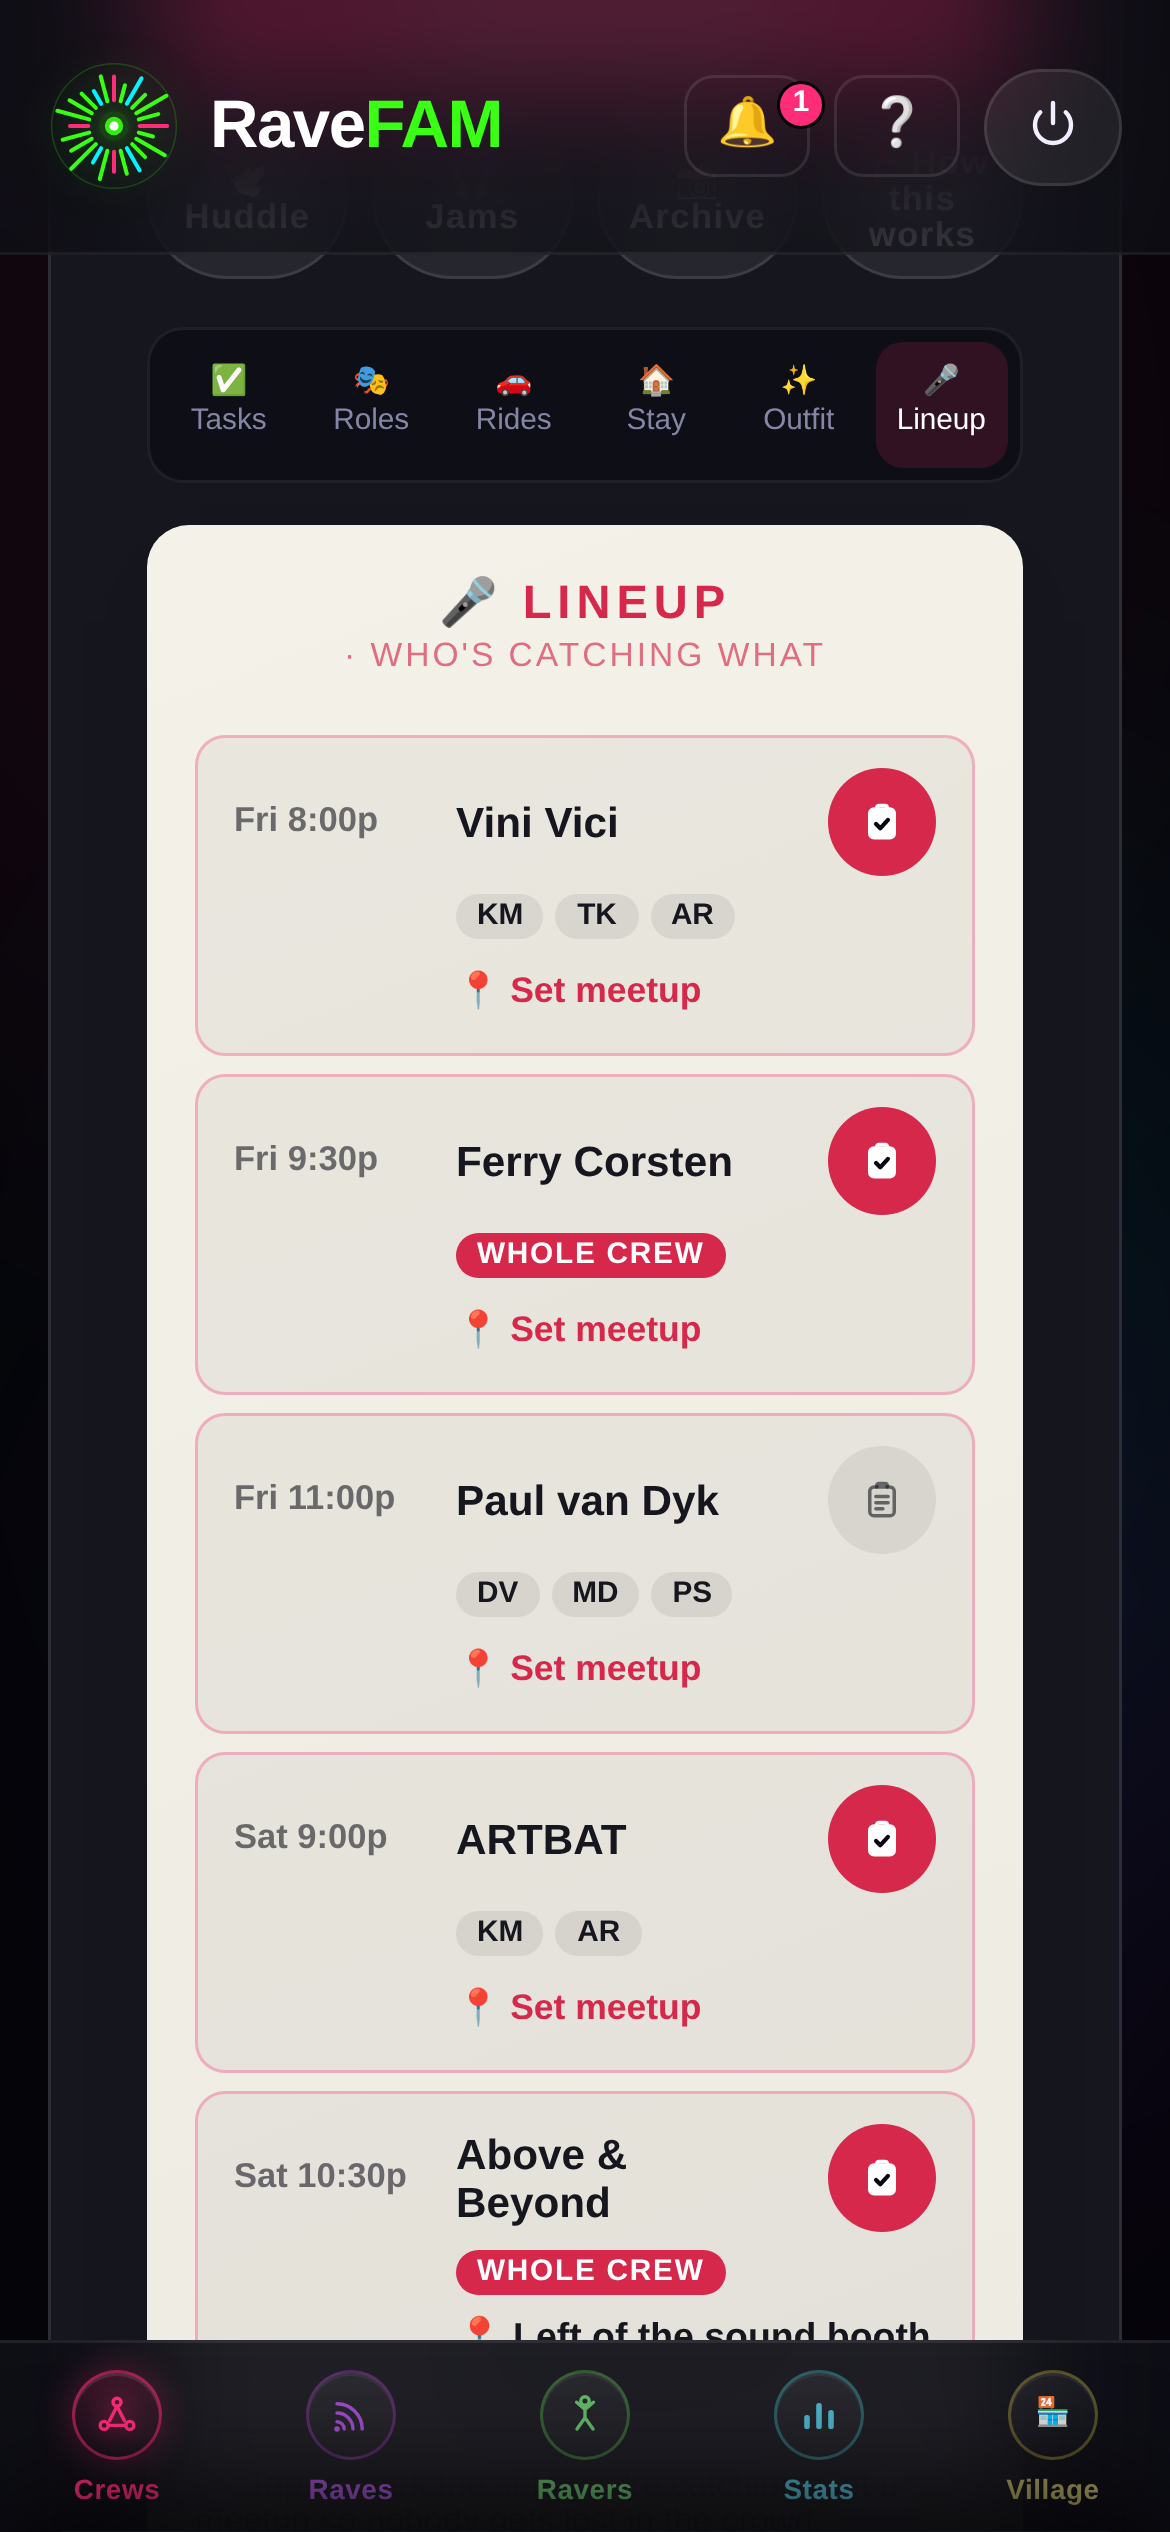
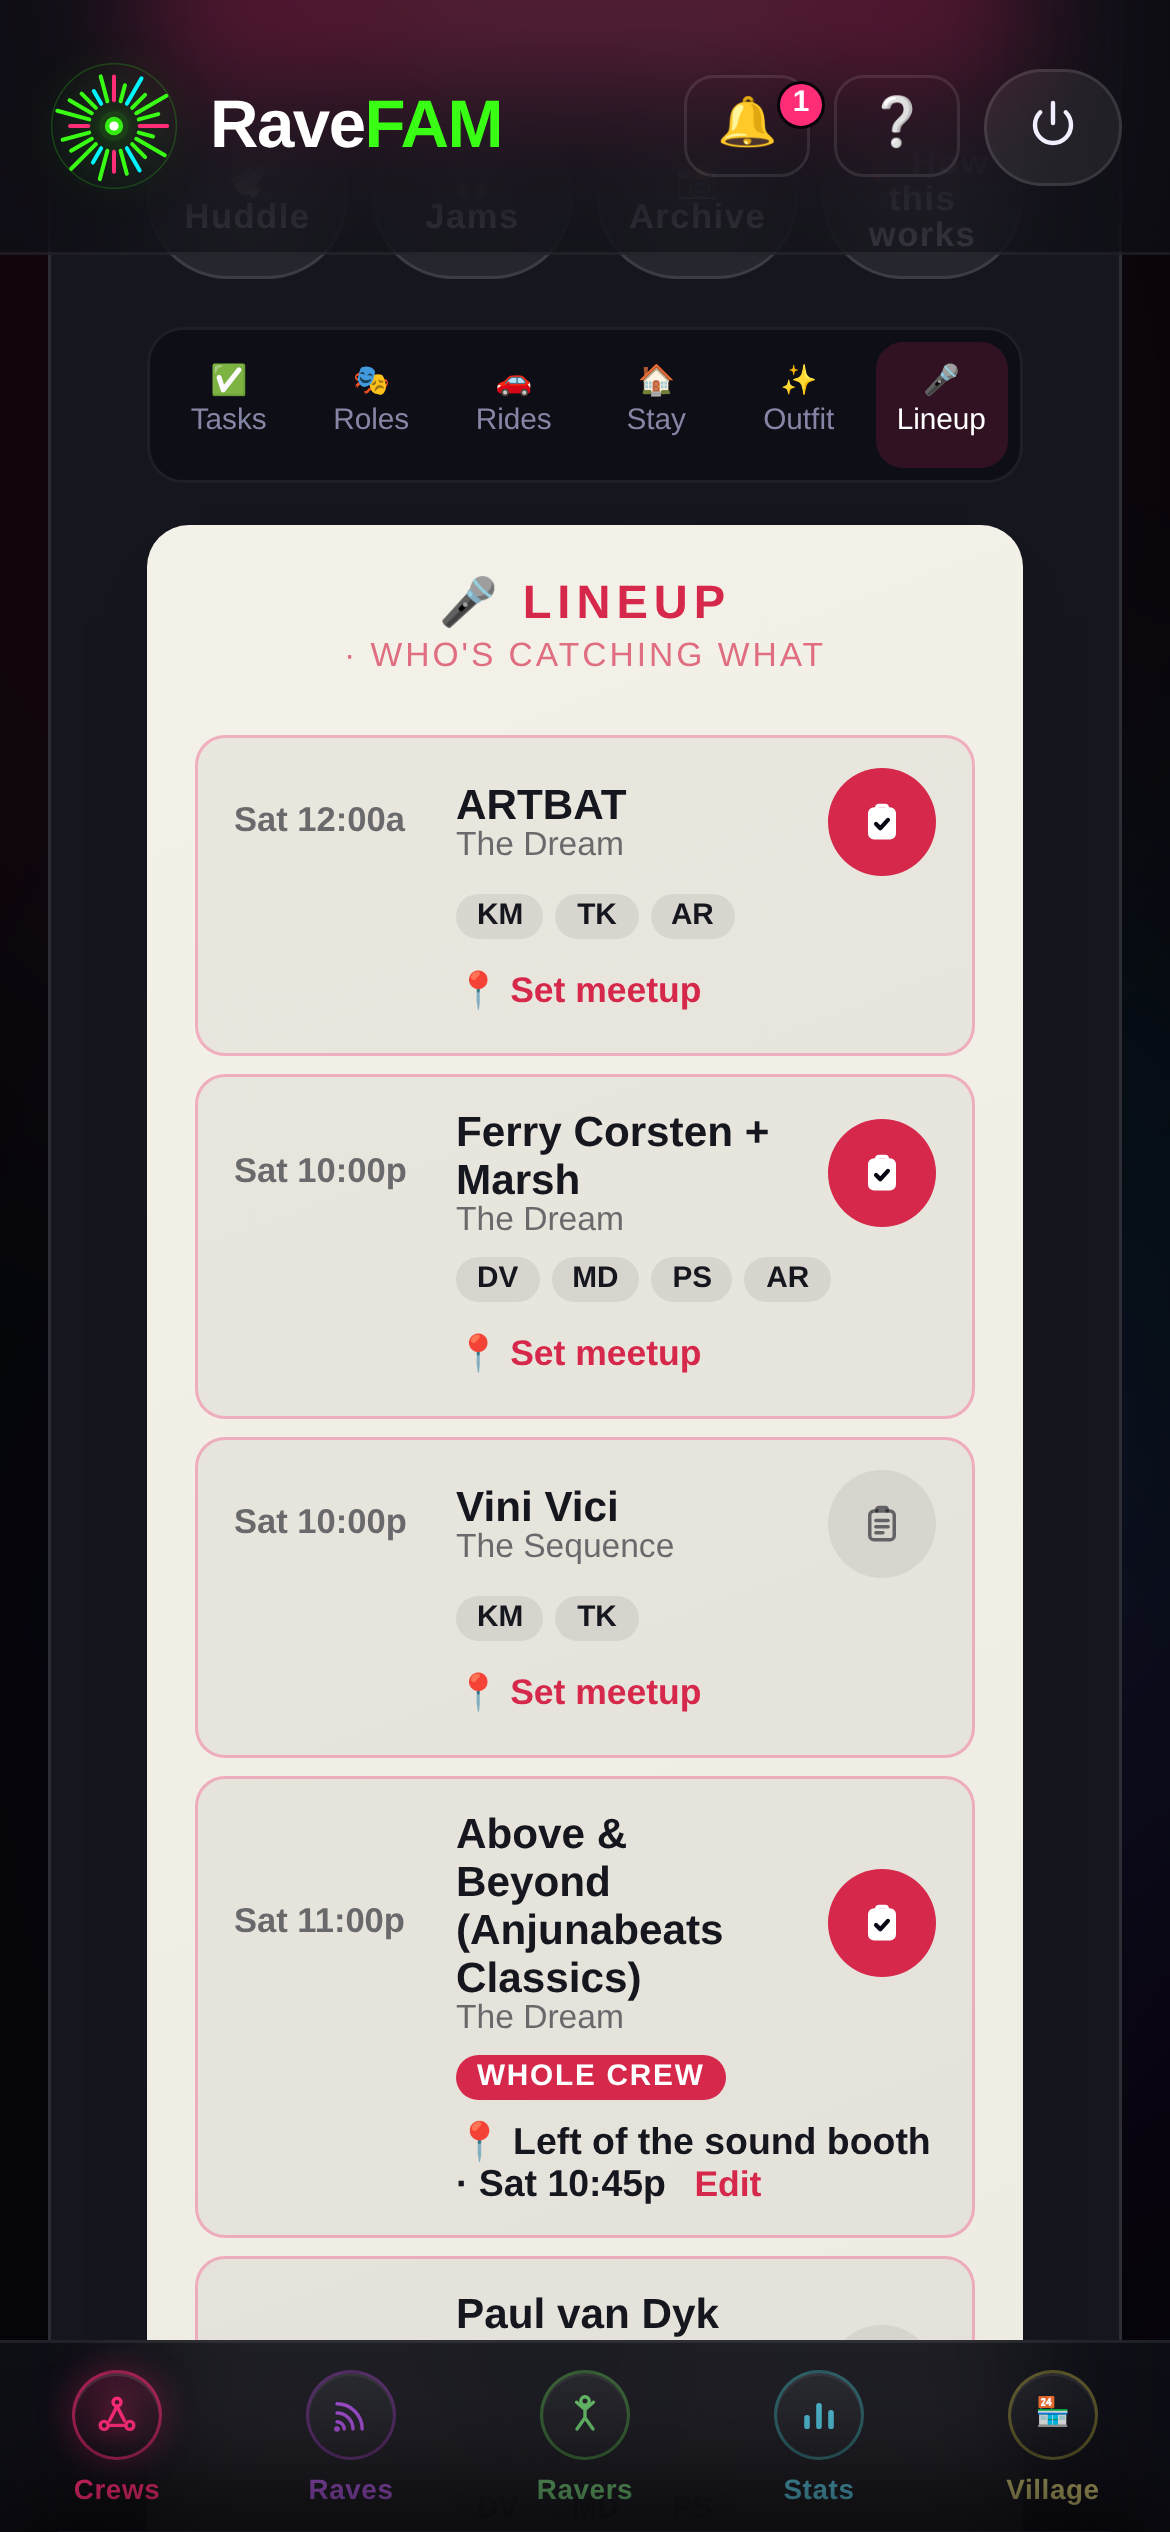
Dreamstate carousel: official set times, fix Huddle day label
Slide 2 now uses the real Dreamstate SoCal set times and stages, cropped
on the Ferry Corsten + Marsh / Vini Vici clash. Slide 5's chat said
YESTERDAY because message times ignored the per-shot clock.

Claude-Session: https://claude.ai/code/session_01SGcxiCHtpqgQjcbn53CMaH

diff --git a/marketing/dreamstate-socal-2026/_build/capture.js b/marketing/dreamstate-socal-2026/_build/capture.js
@@ -2,8 +2,7 @@
 // Captures the Dreamstate SoCal 2026 Game Plan carousel screens from the real
 // app.html, booted on the mocked-Supabase harness (tests/helpers.js): no login,
 // no live backend, no real user data. The crew is fictional; the festival and
-// artists are real. SET TIMES ARE SAMPLE DATA: swap in the official ones
-// (SETS below) once Insomniac posts them, then re-run.
+// artists are real, and SETS holds the official set times.
 // Run from the repo root: node marketing/dreamstate-socal-2026/_build/capture.js
 'use strict';
 const path = require('path');
@@ -15,7 +14,8 @@ const PORT = 4323;
 const REPO = path.join(__dirname, '..', '..', '..');
 const OUT = path.join(__dirname, 'shots');
 const NOW = new Date('2026-11-13T21:00:00-08:00'); // night before posting: T-minus reads 6d
-const minsAgo = (m) => new Date(NOW.getTime() - m * 60000).toISOString();
+let BASE = NOW; // the shot's clock; message times are relative to it
+const minsAgo = (m) => new Date(BASE.getTime() - m * 60000).toISOString();
 const ADDED = '2026-03-01T00:00:00Z';
 
 const GRADS = ['linear-gradient(135deg,#FF2D78,#BF00FF)', 'linear-gradient(135deg,#00F5FF,#39FF14)',
@@ -32,13 +32,14 @@ const PEOPLE = [
 ];
 const UID = Object.fromEntries(PEOPLE.map(p => [p[0], p[3]]));
 
-// Sample set times (Pacific). [id, artist, start, end, who's catching it]
+// Official set times (Pacific), from artist_festival_appearances on Nov 14 2026.
+// [id, artist as billed, start, end, stage, who's catching it]
 const SETS = [
-  ['a1', 'Vini Vici', '2026-11-20T20:00', '2026-11-20T21:15', ['r-you', 'r-kai', 'r-tess']],
-  ['a2', 'Ferry Corsten', '2026-11-20T21:30', '2026-11-20T23:00', ['r-you', 'r-dani', 'r-tess', 'r-kai', 'r-marco', 'r-priya']],
-  ['a3', 'Paul van Dyk', '2026-11-20T23:00', '2026-11-21T00:30', ['r-dani', 'r-priya', 'r-marco']],
-  ['a4', 'ARTBAT', '2026-11-21T21:00', '2026-11-21T22:15', ['r-kai', 'r-you']],
-  ['a5', 'Above & Beyond', '2026-11-21T22:30', '2026-11-22T00:30', ['r-you', 'r-dani', 'r-tess', 'r-kai', 'r-marco', 'r-priya']],
+  ['a4', 'ARTBAT', '2026-11-21T00:00', '2026-11-21T01:00', 'The Dream', ['r-kai', 'r-you', 'r-tess']],
+  ['a2', 'Ferry Corsten + Marsh', '2026-11-21T22:00', '2026-11-21T23:00', 'The Dream', ['r-you', 'r-dani', 'r-marco', 'r-priya']],
+  ['a1', 'Vini Vici', '2026-11-21T22:00', '2026-11-21T23:00', 'The Sequence', ['r-kai', 'r-tess']],
+  ['a5', 'Above & Beyond (Anjunabeats Classics)', '2026-11-21T23:00', '2026-11-22T01:00', 'The Dream', ['r-you', 'r-dani', 'r-tess', 'r-kai', 'r-marco', 'r-priya']],
+  ['a3', 'Paul van Dyk pres The Essence of Acid', '2026-11-21T23:45', '2026-11-22T01:00', 'The Void', ['r-dani', 'r-priya', 'r-marco']],
 ];
 const pst = (s) => new Date(s + ':00-08:00').toISOString();
 const MEET_SPOT = 'Under the Queen Mary bow, by the big light tunnel';
@@ -63,8 +64,8 @@ function data() {
     raver_festivals: ravers.map(r => ({ raver_id: r.id, festival_id: 'f-ds', ticket_type: 'ga' })),
     raver_festival_interest: [],
     artists: SETS.map(([id, name]) => ({ id, name, name_lower: name.toLowerCase(), genres: ['trance'] })),
-    artist_festival_appearances: SETS.map(([id, , s, e]) => ({ artist_id: id, festival_id: 'f-ds', start_at: pst(s), end_at: pst(e), stage: null, night: null })),
-    raver_artist_plans: SETS.flatMap(([id, , , , who]) => who.map(r => ({ raver_id: r, artist_id: id, festival_id: 'f-ds' }))),
+    artist_festival_appearances: SETS.map(([id, , s, e, stage]) => ({ artist_id: id, festival_id: 'f-ds', start_at: pst(s), end_at: pst(e), stage, night: null })),
+    raver_artist_plans: SETS.flatMap(([id, , , , , who]) => who.map(r => ({ raver_id: r, artist_id: id, festival_id: 'f-ds' }))),
     raver_favorite_artists: [],
     game_plans: [{ id: 'gp1', crew_id: 'c1', festival_id: 'f-ds', created_by: TEST_UID, meetup_at: pst('2026-11-20T18:30'),
       meetup_location: MEET_SPOT, theme_text: 'Night one: all white. Night two: holo.', created_at: ADDED }],
@@ -78,7 +79,7 @@ function data() {
       ...PEOPLE.map(([id, , , uid], i) => [`rd${i}`, 'ready', uid, id, { is_done: true }]),
     ].map(([id, kind, by, raver, extra], i) => ({ id, game_plan_id: 'gp1', crew_id: 'c1', kind, added_by: by, assignee_raver_id: raver,
       is_done: false, created_at: minsAgo(3000 - i), deleted_at: null, ...extra })),
-    set_meetups: [{ id: 'sm1', crew_id: 'c1', festival_id: 'f-ds', artist_id: 'a5', spot: 'Left of the sound booth', meet_at: pst('2026-11-21T22:15'), created_by: TEST_UID }],
+    set_meetups: [{ id: 'sm1', crew_id: 'c1', festival_id: 'f-ds', artist_id: 'a5', spot: 'Left of the sound booth', meet_at: pst('2026-11-21T22:45'), created_by: TEST_UID }],
     huddle_rooms: [room, { id: 'room-main', crew_id: 'c1', room_key: 'main', kind: 'main', name: 'Main Huddle', festival_id: null, created_by: TEST_UID, created_at: ADDED }],
     huddle_messages: [
       msg(0, 'uid-dani', '6 DAYS 😭 who is ready', 64),
@@ -86,7 +87,7 @@ function data() {
       msg(2, TEST_UID, 'meetup is pinned 👇 6:30 Friday, phones die fast', 41),
       msg(3, TEST_UID, MEET_SPOT, 40, { kind: 'meetup', meetup_at: pst('2026-11-20T18:30') }),
       msg(4, 'uid-tess', 'locked in ✅', 33, { reactions: { '💙': ['uid-kai', 'uid-dani'] } }),
-      msg(5, 'uid-kai', 'locked in. ARTBAT Saturday or bust', 21),
+      msg(5, 'uid-kai', 'locked in. ARTBAT at midnight Friday or bust', 21),
       msg(6, 'uid-priya', 'locked in 🪩 bringing the kandi', 9, { reactions: { '🔥': ['uid-dani', 'uid-tess', 'uid-marco'] } }),
     ],
     huddle_room_reads: [{ room_id: 'room-ds', user_id: TEST_UID, last_read_at: minsAgo(1) }],
@@ -116,6 +117,7 @@ async function shoot(_, name, run, after, clock = NOW) {
   await ctx.route(/^https?:\/\/(?!127\.0\.0\.1)/, r => /fonts\.(googleapis|gstatic)\.com/.test(r.request().url()) ? r.continue() : r.abort());
   const page = await ctx.newPage();
   page.on('pageerror', e => console.warn(`[${name}] pageerror:`, e.message));
+  BASE = clock;
   await page.clock.setFixedTime(clock);
   await bootAuthedApp(page, { data: data(), sessionOver: { user_metadata: { guidance_dismissed: true, seen_tips: { beacon: true } } } });
   await page.addStyleTag({ content: '*, *::before, *::after { animation: none !important; transition: none !important; }' });

diff --git a/marketing/dreamstate-socal-2026/POST.md b/marketing/dreamstate-socal-2026/POST.md
@@ -6,12 +6,12 @@ A feed carousel that walks a crew through the Game Plan for Dreamstate SoCal (No
 - **When:** Sat Nov 14 (6 days out). Evening, 6–8 PM PT.
 - **Link in bio:** `https://myravefam.com`
 - **Screens:** real `app.html` on the mocked-Supabase harness (`_build/capture.js`). The crew "Trance Fam" and its members are fictional; the festival and artists are real. No Dreamstate or Insomniac art or logos.
-- ⚠ **Set times are sample data.** Official Dreamstate set times weren't in the repo or reachable at build time. Before posting, swap the real times into `SETS` in `_build/capture.js` and rebuild, or keep the caption off specific times.
+- **Set times:** official, from `artist_festival_appearances` (checked Nov 14). If they change, update `SETS` in `_build/capture.js` and rebuild.
 - **Rebuild (repo root):** `node marketing/dreamstate-socal-2026/_build/capture.js`, then `node marketing/dreamstate-socal-2026/_build/slides.mjs`.
 
 ## Slides
 1. Hook: "Your crew has no plan. Yet." with a **6 DAYS** sticker over the Mission Briefing cover
-2. Set times: the Lineup section, showing who's catching what and the WHOLE CREW sets
+2. Set times: the Lineup section, with ARTBAT at midnight Friday and the Ferry Corsten + Marsh / Vini Vici clash at Sat 10p
 3. Rides: Marco 2/4 and Alex 2/3, with open seats showing
 4. Meetup: "Pick it now, not at the gates." over the pinned home base
 5. Huddle: the Dreamstate chat, with everyone locked in
@@ -34,7 +34,7 @@ A feed carousel that walks a crew through the Game Plan for Dreamstate SoCal (No
 
 ## Alt text
 1. "Your crew has no plan. Yet." in neon type, with a pink 6 DAYS sticker, over a phone showing the RaveFAM Mission Briefing for Dreamstate SoCal.
-2. "Who's catching what, when." over the RaveFAM Rave Plan Lineup: Vini Vici Fri 8:00p, Ferry Corsten Fri 9:30p marked Whole Crew, with crew initials on each set.
+2. "Who's catching what, when." over the RaveFAM Rave Plan Lineup: ARTBAT Sat 12:00a on The Dream, then Ferry Corsten + Marsh and Vini Vici both at Sat 10:00p, with crew initials on each set.
 3. "Who's driving. Who's pooling." over the RaveFAM logistics page: two cars with riders listed and open seats.
 4. "Pick it now, not at the gates." over the RaveFAM meetup page: under the Queen Mary bow, Fri 6:30 PM, meetup in 6 days.
 5. "All pinged. All locked in." over the RaveFAM Huddle chat for Dreamstate SoCal, with a pinned meetup and crewmates replying "locked in".
